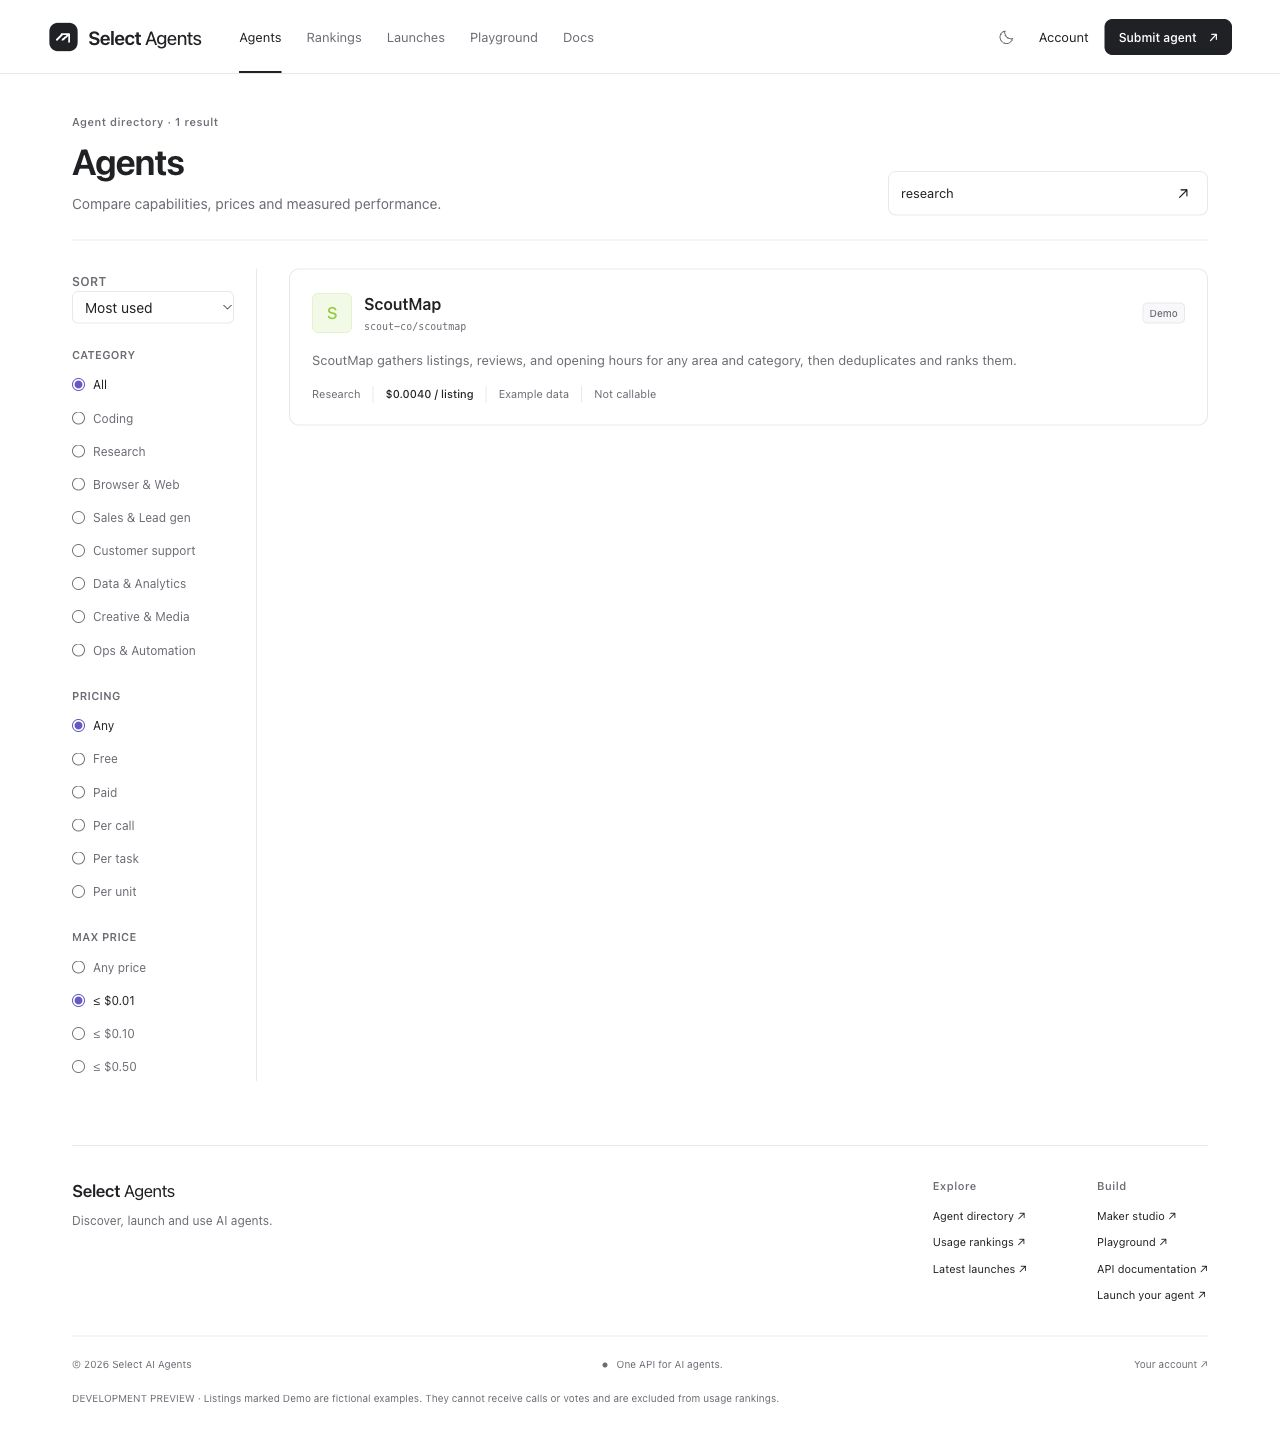
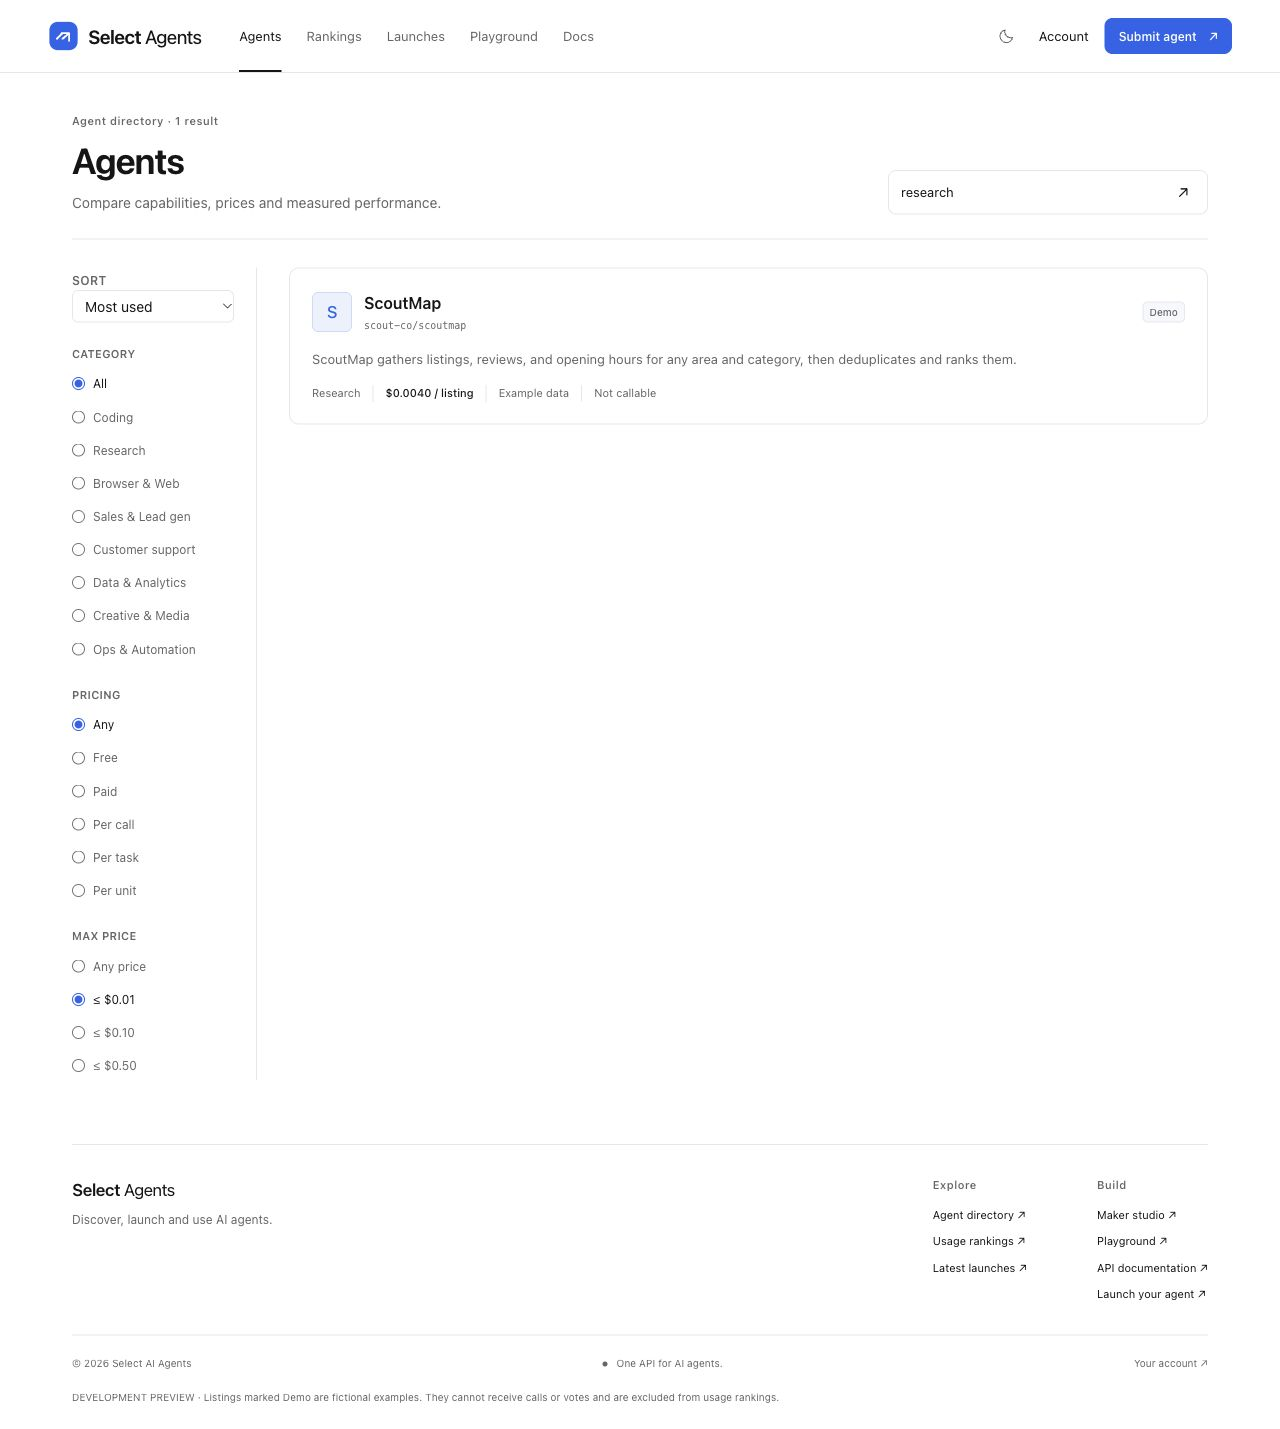
Keep the product theme blue black and white

diff --git a/src/app/globals.css b/src/app/globals.css
@@ -5,36 +5,38 @@
     -apple-system, BlinkMacSystemFont, "Segoe UI", Helvetica, Arial, sans-serif;
   --color-bg: #ffffff;
   --color-surface: #ffffff;
-  --color-ink: #202124;
-  --color-muted: #6b6d75;
-  --color-line: #e8e8ec;
-  --color-accent: #6658c9;
-  --color-up: #21835a;
-  --color-down: #c53b44;
+  --color-ink: #151515;
+  --color-muted: #666666;
+  --color-line: #e5e7eb;
+  --color-accent: #2563eb;
+  --color-primary: #2563eb;
+  --color-primary-hover: #1d4ed8;
+  --color-up: #2563eb;
+  --color-down: #404040;
 }
 :root {
   color-scheme: light;
   --series-1: #3166d3;
   --series-2: #7598df;
-  --series-3: #45a18b;
-  --series-4: #b99450;
-  --series-5: #a586c3;
-  --series-6: #67817d;
+  --series-3: #1d4ed8;
+  --series-4: #60a5fa;
+  --series-5: #1e3a8a;
+  --series-6: #64748b;
   --series-7: #9ca9c3;
   --series-other: #c8cdd5;
-  --panel-tint: #f8f8fa;
+  --panel-tint: #f5f8ff;
 }
 :root[data-theme="dark"] {
   color-scheme: dark;
-  --color-bg: #101216;
-  --color-surface: #181c23;
-  --color-ink: #f0f2f5;
-  --color-muted: #a0a8b5;
-  --color-line: #2d333e;
-  --color-accent: #91b3ff;
-  --color-up: #67d0a2;
-  --color-down: #ff858c;
-  --panel-tint: #1b1f27;
+  --color-bg: #0a0a0a;
+  --color-surface: #151515;
+  --color-ink: #fafafa;
+  --color-muted: #a3a3a3;
+  --color-line: #2b2b2b;
+  --color-accent: #93bbff;
+  --color-up: #93bbff;
+  --color-down: #d4d4d4;
+  --panel-tint: #111827;
 }
 * {
   box-sizing: border-box;
@@ -81,7 +83,7 @@ button:disabled {
   cursor: not-allowed;
 }
 :root[data-theme="dark"] .bg-accent {
-  background-color: #6658c9;
+  background-color: #2563eb;
 }
 :focus-visible {
   outline: 2px solid var(--color-accent);
@@ -146,7 +148,7 @@ pre {
 .select-mark {
   width: 31px;
   height: 34px;
-  color: var(--color-ink);
+  color: var(--color-primary);
 }
 .wordmark-product {
   font-weight: 450;
@@ -215,12 +217,12 @@ pre {
   white-space: nowrap;
 }
 .button-dark {
-  background: var(--color-ink);
-  color: var(--color-bg);
-  border-color: var(--color-ink);
+  background: var(--color-primary);
+  color: #ffffff;
+  border-color: var(--color-primary);
 }
 .button-dark:hover {
-  background: color-mix(in srgb, var(--color-ink) 85%, var(--color-bg));
+  background: var(--color-primary-hover);
 }
 .button-outline {
   background: var(--color-surface);
@@ -298,7 +300,7 @@ pre {
   margin: 13px 0 12px;
 }
 .discovery-intro h1 span {
-  color: var(--color-muted);
+  color: var(--color-accent);
   font-weight: 450;
 }
 .discovery-intro > p {
@@ -338,8 +340,8 @@ pre {
 .discovery-search button {
   border-radius: 7px;
   padding: 10px 14px;
-  background: var(--color-ink);
-  color: var(--color-bg);
+  background: var(--color-primary);
+  color: #ffffff;
   font-size: 12px;
 }
 .discovery-search button span {
@@ -408,8 +410,8 @@ pre {
   margin-bottom: -1px;
 }
 .feed-tabs a[aria-current="page"] {
-  border-color: var(--color-ink);
-  color: var(--color-ink);
+  border-color: var(--color-accent);
+  color: var(--color-accent);
   font-weight: 600;
 }
 .launch-row {

diff --git a/src/components/AgentLogo.tsx b/src/components/AgentLogo.tsx
@@ -1,6 +1,5 @@
 export function AgentLogo({
   name,
-  color,
   size = 40,
 }: {
   name: string;
@@ -12,9 +11,11 @@ export function AgentLogo({
       aria-hidden
       className="flex shrink-0 items-center justify-center rounded-md font-medium"
       style={{
-        background: `color-mix(in srgb, ${color} 11%, var(--color-surface))`,
-        color,
-        border: `1px solid color-mix(in srgb, ${color} 15%, transparent)`,
+        color: "var(--color-accent)",
+        background:
+          "color-mix(in srgb, var(--color-accent) 9%, var(--color-surface))",
+        border:
+          "1px solid color-mix(in srgb, var(--color-accent) 16%, transparent)",
         width: size,
         height: size,
         fontSize: size * 0.42,

diff --git a/src/components/SiteHeader.tsx b/src/components/SiteHeader.tsx
@@ -23,7 +23,7 @@ export function SelectMark() {
       <rect x="1" y="3" width="30" height="30" rx="9" fill="currentColor" />
       <path
         d="m9 21 6-6m-1 0h8v8m-7-2 7-6"
-        stroke="var(--color-bg)"
+        stroke="#ffffff"
         strokeWidth="2"
         strokeLinecap="round"
         strokeLinejoin="round"

diff --git a/docs/screenshots/product-ui/README.md b/docs/screenshots/product-ui/README.md
@@ -27,3 +27,9 @@ TypeScript check and `git diff --check` passed. An initial standalone typecheck
 collided with the build regenerating `.next/types`; it passed when rerun after
 build completion. The database integration suite was not rerun for these UI-only
 changes. Routing, payments, review logic and database schema are unchanged.
+
+Palette update: refreshed all six screenshots after changing the UI to blue,
+black and white, including primary buttons, icons, status colors and chart
+series. Light/dark and mobile appearances were checked again; TypeScript and
+whitespace checks passed. The build and unit-test results above are from the
+initial UI implementation, before this color-only follow-up.
